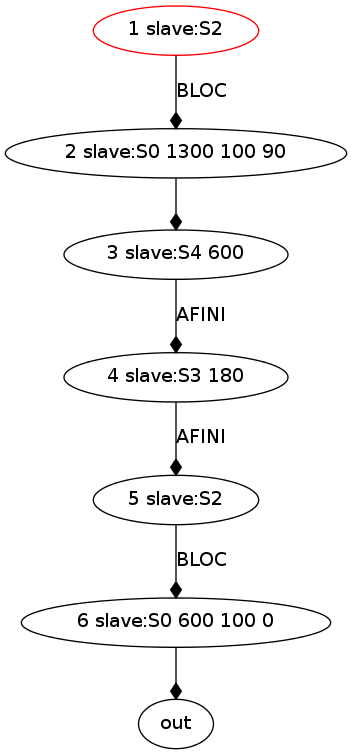
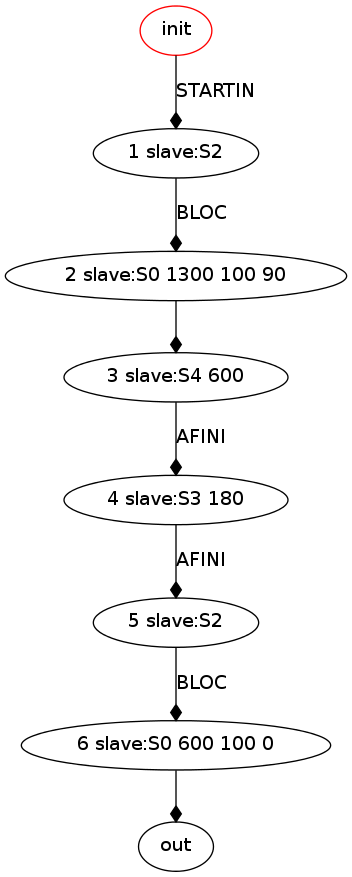
first point motherfucker git add .!

diff --git a/pi/communication.py b/pi/communication.py
@@ -1,12 +1,12 @@
 import serial 
+import time
 
-welcome_messages = ["#SLAVE READY\n", "#ACTIO1 READY\n", "#ACTIO2 READY\n"]
+welcome_messages = ["#SLAVE READY\r\n", "#ACTIO1 READY\r\n", "#ACTIO2 READY\r\n"]
 
 
 class Communication:
-    def __init__(self, global_mae, robot="mark"):
+    def __init__(self, robot="mark"):
 
-        self.global_mae = global_mae
         if robot == "mark":
             self.slave, self.actio1, self.actio2 = self.init_arduinos_mark()
             self.serials = [self.slave, self.actio1, self.actio2]
@@ -21,6 +21,9 @@ class Communication:
                 "slave": self.slave,
                 "actio1": self.actio1}
 
+    def set_global_mae(self, global_mae):
+        self.global_mae = global_mae
+            
     def non_blocking_read_line(self, ser):
         """ careful, assert that everything is writen line by line """
         if ser.inWaiting():
@@ -28,11 +31,17 @@ class Communication:
 
     def get_serial_name(self, serr):
         """ done when initializing the boards. """
+        if serr is None:
+            print "missing arduino"
+            return None
         while True:
             line = self.non_blocking_read_line(serr)
             if line in welcome_messages:
                 return line
             else:
+                print line
+                time.sleep(0.4)
+   #             raw_input()
                 print "weird reading... check connection"
 
     def init_arduinos_mark(self):
@@ -64,26 +73,49 @@ class Communication:
 
     def init_arduinos_debile(self):
         """ return the 3 correct serial connection """
-        ser1 = serial.Serial('/dev/ttyUSB0', 9600)
-        ser2 = serial.Serial('/dev/ttyUSB1', 9600)
+        ser1 = ser2 = None
 
-        ser1.close()
-        ser1.open()
+        try:
+            ser1 = serial.Serial('/dev/ttyUSB0', 9600)
+            # Toggle DTR to reset Arduino
+            ser1.setDTR(False)
+            time.sleep(1)
+# toss any data already received, see
+# http://pyserial.sourceforge.net/pyserial_api.html#serial.Serial.flushInput
+            ser1.flushInput()
+            ser1.setDTR(True)
+        except:
+            pass
+        try:
 
-        ser2.close()
-        ser2.open()
-    
+            ser2 = serial.Serial('/dev/ttyUSB1', 9600)
+            ser2.setDTR(False)
+            time.sleep(1)
+# toss any data already received, see
+# http://pyserial.sourceforge.net/pyserial_api.html#serial.Serial.flushInput
+            ser2.flushInput()
+            ser2.setDTR(True)
+
+        except:
+            print "WARNING"
+        
         d = {}
         d[self.get_serial_name(ser1)] = ser1
         d[self.get_serial_name(ser2)] = ser2
         d[None] = None
 
-        slave = d[welcome_messages[0]]
-        actio1 = d[welcome_messages[1]]
+        slave = d.get(welcome_messages[0], None)
+        actio1 = d.get(welcome_messages[1], None)
+        if slave is None:
+            print "No Slave"
+        if actio1 is None:
+            print "No actio1"
+
 
         return slave, actio1
 
     def treat_line(self, line):
+        print line
         if line[0] == "#":
             if line == "#BLOC\r\n":
                 self.global_mae.trigger("BLOC")
@@ -94,19 +126,21 @@ class Communication:
                 self.global_mae.trigger("AFINI")
             elif line == "#NEAR\r\n":
                 self.global_mae.trigger("NEAR")
+            elif line == "#START\r\n":
+                self.global_mae.trigger("START")
+            elif line == "#STARTIN\r\n":
+                self.global_mae.trigger("STARTIN")
             else:
                 print "unkown transition", line
 
     def run(self):
         """ read message and send transitions """
         for ser in self.serials:
-            line = self.non_blocking_read_line(ser)
-            while line is not None:
-                self.treat_line(line)
+            if ser is not None:
                 line = self.non_blocking_read_line(ser)
-
-
-
+                while line is not None:
+                    self.treat_line(line)
+                    line = self.non_blocking_read_line(ser)
             
 
     def send(self, arduino, message):

diff --git a/pi/mae_generator/mae_global.py b/pi/mae_generator/mae_global.py
@@ -1,23 +1,27 @@
-from mae import MAE, MAEState, InitState, OutState, State, debugger
+from mae_generator.mae import MAE, MAEState, InitState, OutState, State, debugger
+from com_state_factory import ComStateFactory
+from mae_generator.pre_start import MAEPrestart
+from utils.coord import Coord
 
 
 class MAEGlobal(MAE):
-    def __init__(self):
+    def __init__(self, com_state_factory):
         MAE.__init__(self)
-        pre_start = State("pre_start")
-        game = MAEState(MAEGame(), "game")
+        pre_start = MAEState(MAEPrestart(com_state_factory), "pre_start")
+        game = MAEState(MAEGame(com_state_factory), "game")
         end = State("end")
         self.state_list = [pre_start, game, end]
-        pre_start.transitions["start"] = game
+        pre_start.transitions["START"] = game
         game.transitions["time_out_90"] = end 
         self.reinit_state()
 
 
 class MAEGame(MAE):
-    def __init__(self):
+    def __init__(self, com_state_factory):
         MAE.__init__(self)
+        self.sf = com_state_factory
         #state
-        rush = MAEState(MAERush(), "rush")
+        rush = MAEState(MAERush(com_state_factory), "rush")
         choix_mission = State("choix_mission")
         deplacement_mission = MAEState(MAEDepMission(), "deplacement_mission")
         evitement = MAEState(MAEEvitement(), "evitement")
@@ -33,12 +37,21 @@ class MAEGame(MAE):
         self.state_list = [
             rush, choix_mission, deplacement_mission, evitement, mission]
         self.reinit_state()
+        print "COUCOU", self.current_state
 
 
 class MAERush(MAE):
-    def __init__(self):
+    def __init__(self, com_state_factory):
         MAE.__init__(self)
-        self.state_list = [OutState("end_rush")]
+        self.sf = com_state_factory
+
+        init = InitState()
+        speed_change = self.sf.get_setspeed(2)
+        avance_triangle1 = self.sf.get_bf_fw(Coord(1200))
+        
+        init.add_instant_transition(speed_change)
+        speed_change.add_instant_transition(avance_triangle1)
+        self.state_list = [init, speed_change, avance_triangle1, OutState("end_rush")]
         self.reinit_state()
 
 
@@ -67,6 +80,6 @@ class MAEMission(MAE):
 
 
 if __name__ == "__main__":
-    mae = MAEGame()
-    #mae = MAEGlobal()
+    #mae = MAEGame()
+    mae = MAEGlobal(ComStateFactory("pipo"))
     debugger(mae)

diff --git a/pi/mae_generator/pre_start.py b/pi/mae_generator/pre_start.py
@@ -1,32 +1,35 @@
-from mae_generator.mae import MAE, OutState, debugger
+from mae_generator.mae import MAE, InitState, OutState, debugger
 from com_state_factory import ComStateFactory
 from utils.coord import Coord
+
 
 class MAEPrestart(MAE):
     def __init__(self, com_state_factory):
         MAE.__init__(self)
         self.sf = com_state_factory
-        d_dos_cdg = 100 # distance entre le dos et le centre de gravite du robot
+        d_dos_cdg = 100  # distance entre le dos et le centre de gravite du robot
        
         #state
+        wait = InitState()
         recaly = self.sf.get_recaler()
         set_y0 = self.sf.get_setxycap(Coord(1300, d_dos_cdg, 90)) 
-        avance_plac_y = self.sf.get_bf_fw(Coord(600))
+        avance_plac_y = self.sf.get_bf_fw(Coord(550))
         tourne = self.sf.get_bf_cap(Coord(0, 0, 180))
         recalx = self.sf.get_recaler()
-        set_x0 = self.sf.get_setxycap(Coord(600, d_dos_cdg, 0))  #TODO change this with real state of the robot 
+        set_x0 = self.sf.get_setxycap(Coord(600, d_dos_cdg, 0))  # TODO change this with real state of the robot 
         out = OutState()
 
         #transitions
+        wait.add_transition("STARTIN", recaly)
         recaly.add_bloc_transition(set_y0)
         set_y0.add_instant_transition(avance_plac_y)
         avance_plac_y.add_afini_transition(tourne)
         tourne.add_afini_transition(recalx)
         recalx.add_bloc_transition(set_x0)
-        set_x0.add_instant_transition(out)
+        set_x0.add_transition("START", out)
 
         self.state_list = [
-            recaly, set_y0, avance_plac_y, tourne, recalx, set_x0, out]
+            wait, recaly, set_y0, avance_plac_y, tourne, recalx, set_x0, out]
         self.reinit_state()
 
  

diff --git a/pi/mae_generator/mae.py b/pi/mae_generator/mae.py
@@ -73,7 +73,8 @@ class MAE():
         else:
             raise NotImplementedError("multiple input not implemented yet")
         if self.verbose:
-            print self.current_state
+            print "$$reinit"
+            print "$$", self.current_state
 
     def go_to(self, new_state):
         """ check if new_state is not None and go there """
@@ -85,6 +86,8 @@ class MAE():
             self.current_state.in_code()
 
     def run(self):
+
+       # print self.current_state
         self.current_state.while_code()
         # for special out transition for MAEState
         if isinstance(self.current_state, MAEState) and self.current_state.mae.is_over():
@@ -131,7 +134,7 @@ class MAE():
         graph.draw(file)
 
     def is_over(self):
-        return isinstance(self.current, OutState)
+        return isinstance(self.current_state, OutState)
 
 
 class MAEState(State):
@@ -144,10 +147,10 @@ class MAEState(State):
         self.out_transitions = {}
 
     def in_code(self):
-        self.mae.current_state = self.mae.reinit_state()
+        self.mae.reinit_state()
 
     def while_code(self):
-        self.mae.run(self.verbose)
+        self.mae.run()
 
     def trigger(self, transition):
         self.mae.trigger(transition)

diff --git a/slave/ControlLoop.cpp b/slave/ControlLoop.cpp
@@ -226,7 +226,7 @@ void ControlLoop::check_blockage()
     return;}
    if (dep.norm() < 10.0 && abs(real_coord.get_cap() - late_pos.get_cap()) < 0.05)
    {
-        Serial.println(abs(real_coord.get_cap() - late_pos.get_cap()));
+        //Serial.println(abs(real_coord.get_cap() - late_pos.get_cap()));
         count_not_moving += 1;
         Serial.println("INC BLOC COUNT");
         
@@ -254,7 +254,7 @@ void ControlLoop::check_adversary()
    
     if (to_target.scalar(Vector(real_coord)) <0.)
     {
-        Serial.println("going backward...");
+    //Serial.println("going backward...");
         return;
     }
 
@@ -288,7 +288,7 @@ void ControlLoop::setxycap(Coord new_coord)
 
 void ControlLoop::write_real_coords()
 {
-    Serial.print("#COORD ");
+    Serial.print("*COORD ");
     real_coord.write_serial();
     Serial.print("theorique");
     target_position.write_serial();

diff --git a/pi/main.py b/pi/main.py
@@ -1,8 +1,18 @@
 from communication import Communication
+from com_state_factory import ComStateFactory
+from mae_generator.mae_global import MAEGlobal
 
 
 def main():
-    com = Communication("mark")
+    com = Communication("debile")
+    factory = ComStateFactory(com)
+    mae = MAEGlobal(factory)
+    com.set_global_mae(mae)
+
+    while True:
+        mae.run()
+        com.run()
+
 
 
 if __name__ == "__main__":

diff --git a/slave/Autom.cpp b/slave/Autom.cpp
@@ -119,9 +119,9 @@ ControlLoop* Autom::get_control(){
 
 void write_serial_strat()
 {
-   Serial.print("#COUL ");
+   Serial.print("*COUL ");
    Serial.println(digitalRead(PIN_AN_COULEUR));
-   Serial.print("#STRAT ");
+   Serial.print("*STRAT ");
    Serial.print(digitalRead(PIN_DI_STRAT1));
    Serial.print(" ");
    Serial.println(digitalRead(PIN_DI_STRAT2));

diff --git a/pi/com_state_factory.py b/pi/com_state_factory.py
@@ -37,6 +37,13 @@ class ComStateFactory:
         self.count += 1
         return SendSlaveState(coord.setxycap(), self.com, self.count) 
 
+    def get_setspeed(self, speed):
+        self.count += 1
+        return SendSlaveState("S7 {}".format(speed), self.com, self.count) 
+
+
+
+
 
 
 
